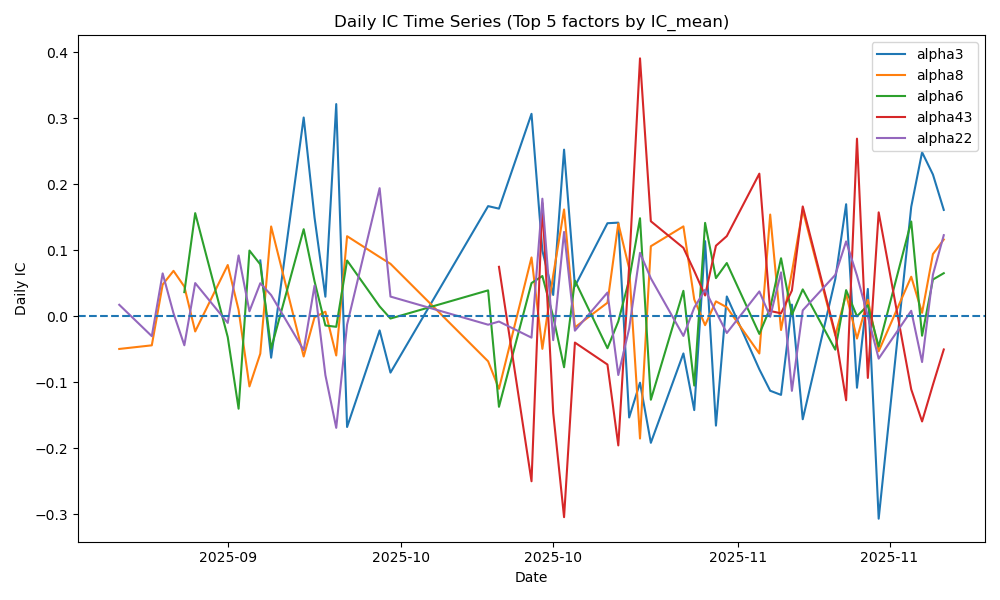
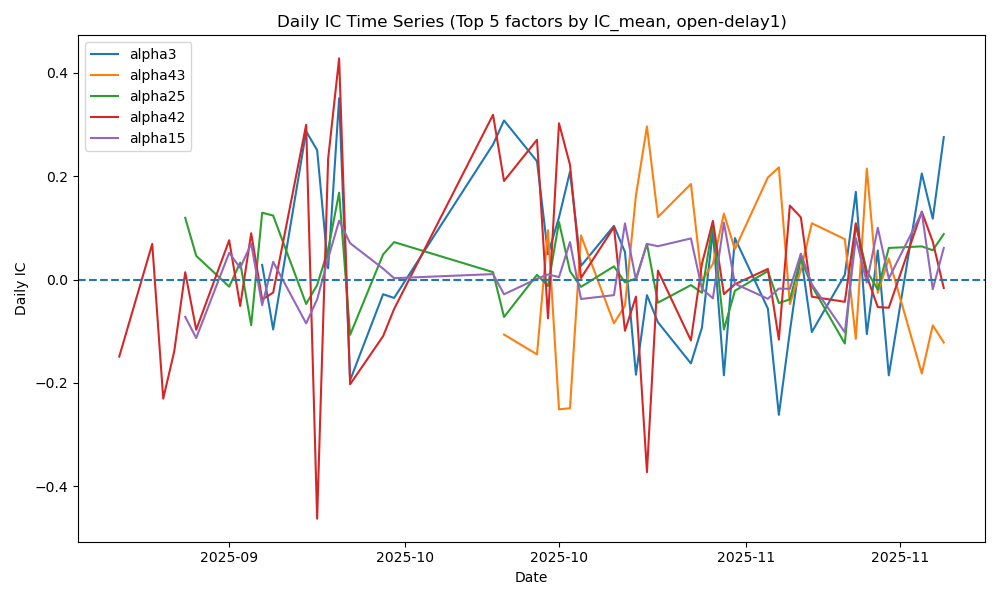
work

diff --git a/1125/code/backtest.py b/1125/code/backtest.py
@@ -4,45 +4,53 @@ import matplotlib.pyplot as plt
 
 
 # ===============================
-# 1. 前瞻收益计算：fwd_ret_1d
+# 1. 前瞻收益计算：基于开盘价，信号滞后一日进场
 # ===============================
 
-def add_forward_return(
+def add_forward_return_open_delay1(
     df: pd.DataFrame,
-    price_col: str = "close",
     group_col: str = "concept_code",
     horizon: int = 1,
-    out_col: str = None,
+    out_col: str | None = None,
 ) -> pd.DataFrame:
     """
-    在 df 上添加前瞻收益列：fwd_ret_horizon
-    默认计算： (P_{t+h} / P_t - 1)
+    因子日期 = t（用到当日收盘和当日新闻）
+    下单价   = open_{t+1}
+    卖出价   = open_{t+1+horizon}
+
+    当 horizon = 1 时：
+        对于写在 t 日的因子：
+            entry = open_{t+1}
+            exit  = open_{t+2}
+            fwd_ret_1d = exit / entry - 1
 
     参数：
-        df        : 包含价格和 concept_code 的 DataFrame
-        price_col : 价格列名（如 'close'）
+        df        : 包含 open、concept_code、date 的 DataFrame
         group_col : 分组列名（如 'concept_code'）
-        horizon   : 前瞻期（单位：交易日），1 表示 t->t+1 收益
-        out_col   : 输出列名，不填则为 f"fwd_ret_{horizon}d"
+        horizon   : 持有期（单位：交易日）
+        out_col   : 输出列名，不填则为 f"fwd_ret_open_d1_{horizon}d"
 
     返回：
         带有新收益列的 DataFrame（copy 一份）
     """
     if out_col is None:
-        out_col = f"fwd_ret_{horizon}d"
+        out_col = f"fwd_ret_open_d1_{horizon}d"
 
     df = df.copy()
     # 按概念 + 日期排序，保证时间顺序
     df = df.sort_values([group_col, "date"])
 
-    # 未来价格：按概念分组向后 shift
-    future_price = df.groupby(group_col)[price_col].shift(-horizon)
+    # 对每个概念分别在 open 上做 shift
+    open_series = df.groupby(group_col)["open"]
 
-    # 当前价格
-    current_price = df[price_col]
+    # 买入价 = open_{t+1}
+    entry_price = open_series.shift(-1)
 
-    # 前瞻收益：P_{t+h} / P_t - 1
-    df[out_col] = future_price / current_price - 1.0
+    # 卖出价 = open_{t+1+horizon}
+    exit_price = open_series.shift(-(1 + horizon))
+
+    # 前瞻收益：exit / entry - 1
+    df[out_col] = exit_price / entry_price - 1.0
 
     return df
 
@@ -54,7 +62,7 @@ def add_forward_return(
 def calc_daily_ic(
     df: pd.DataFrame,
     factor_col: str,
-    ret_col: str = "fwd_ret_1d",
+    ret_col: str,
     method: str = "spearman",
     date_col: str = "date",
 ) -> pd.Series:
@@ -64,7 +72,7 @@ def calc_daily_ic(
     参数：
         df        : DataFrame，包含因子值和前瞻收益
         factor_col: 因子列名，如 'alpha1'
-        ret_col   : 收益列名，如 'fwd_ret_1d'
+        ret_col   : 收益列名，如 'fwd_ret_open_d1_1d'
         method    : 'spearman'（rank IC）或 'pearson'
         date_col  : 日期列名
 
@@ -104,11 +112,11 @@ def calc_daily_ic(
 
 def summarize_factors_ic(
     df: pd.DataFrame,
-    factor_cols: list,
-    ret_col: str = "fwd_ret_1d",
+    factor_cols: list[str],
+    ret_col: str,
     method: str = "spearman",
     date_col: str = "date",
-):
+) -> tuple[pd.DataFrame, pd.DataFrame]:
     """
     对多个因子计算 daily IC 序列，并给出 IC_mean / IC_std / ICIR / N_days。
 
@@ -135,7 +143,7 @@ def summarize_factors_ic(
         else:
             ic_mean = daily_ic_clean.mean()
             ic_std = daily_ic_clean.std(ddof=1)
-            icir = ic_mean / ic_std if ic_std not in (0, np.nan) and ic_std != 0 else np.nan
+            icir = ic_mean / ic_std if (not pd.isna(ic_std) and ic_std != 0) else np.nan
             n_days = daily_ic_clean.shape[0]
 
         summary_rows.append(
@@ -161,7 +169,7 @@ def summarize_factors_ic(
 
 def plot_ic_time_series(
     daily_ic_panel: pd.DataFrame,
-    factors: list,
+    factors: list[str],
     figsize=(10, 6),
     title_suffix: str = "",
 ):
@@ -224,7 +232,7 @@ def plot_ic_hist(
 # ===============================
 
 if __name__ == "__main__":
-    # === 1) 读取你的数据 ===
+    # === 1) 读取数据 ===
     csv_path = "/home/wangyuting/share/quant/wangyuting/liangjian/llm4text/1125/concept_factor_standardized_by_concept.csv"
     df = pd.read_csv(csv_path)
 
@@ -232,19 +240,20 @@ if __name__ == "__main__":
     if not np.issubdtype(df["date"].dtype, np.datetime64):
         df["date"] = pd.to_datetime(df["date"])
 
-    # === 2) 计算 1 日前瞻收益 ===
-    df = add_forward_return(
+    # === 2) 计算 1 日前瞻收益（信号滞后一日，用开盘价）===
+    # 对写在 t 日的因子，用 open_{t+1} 买入，open_{t+2} 卖出
+    df = add_forward_return_open_delay1(
         df,
-        price_col="close",
         group_col="concept_code",
         horizon=1,
-        out_col="fwd_ret_1d",
+        out_col="fwd_ret_1d",    # 名字仍叫 fwd_ret_1d，方便后面复用
     )
 
-    # 简单看一下
-    print(df[["concept_code", "date", "close", "fwd_ret_1d"]]
-          .sort_values(["concept_code", "date"])
-          .head(10))
+    print(
+        df[["concept_code", "date", "open", "fwd_ret_1d"]]
+        .sort_values(["concept_code", "date"])
+        .head(10)
+    )
 
     # === 3) 找出所有 alpha 列 ===
     factor_cols = [c for c in df.columns if c.startswith("alpha")]
@@ -285,7 +294,7 @@ if __name__ == "__main__":
             daily_ic_panel,
             factors=top_factors,
             figsize=(10, 6),
-            title_suffix="(Top 5 factors by IC_mean)",
+            title_suffix="(Top 5 factors by IC_mean, open-delay1)",
         )
 
         # 画 IC_mean 最大的那个因子的 IC 分布
@@ -294,5 +303,5 @@ if __name__ == "__main__":
             factor=top_factors[0],
             bins=30,
             figsize=(6, 4),
-            title_suffix="(Top 1 factor)",
+            title_suffix="(Top 1 factor, open-delay1)",
         )
